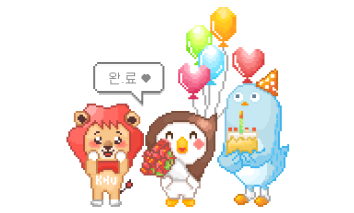
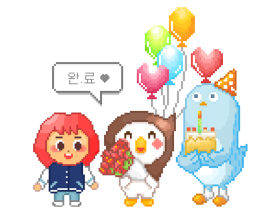
fix: 신청완료페이지 불필요한 코드 정리 및 일러스트 교체

diff --git a/src/pages/common/finishApplyStep/Step.tsx b/src/pages/common/finishApplyStep/Step.tsx
@@ -1,23 +1,12 @@
 import PageLayout from '~/components/layout/page/PageLayout';
 import FirstPage from './FirstPage';
-import { useFunnel } from '~/hooks/useFunnel';
 
 const CommonFinishApplyStep = () => {
-  const { Funnel } = useFunnel({
-    pageNumberList: [1],
-    nextStep: { path: '/' },
-    prevStep: { path: '/common/checkApplyInfoStep' },
-  });
-
   return (
     <PageLayout>
       <PageLayout.Header title={'신청 완료!'} isProgress={false} />
       <PageLayout.SingleCardBody cardPadding={'0'}>
-        <Funnel>
-          <Funnel.Page pageNumber={1}>
-            <FirstPage />
-          </Funnel.Page>
-        </Funnel>
+        <FirstPage />
       </PageLayout.SingleCardBody>
     </PageLayout>
   );
